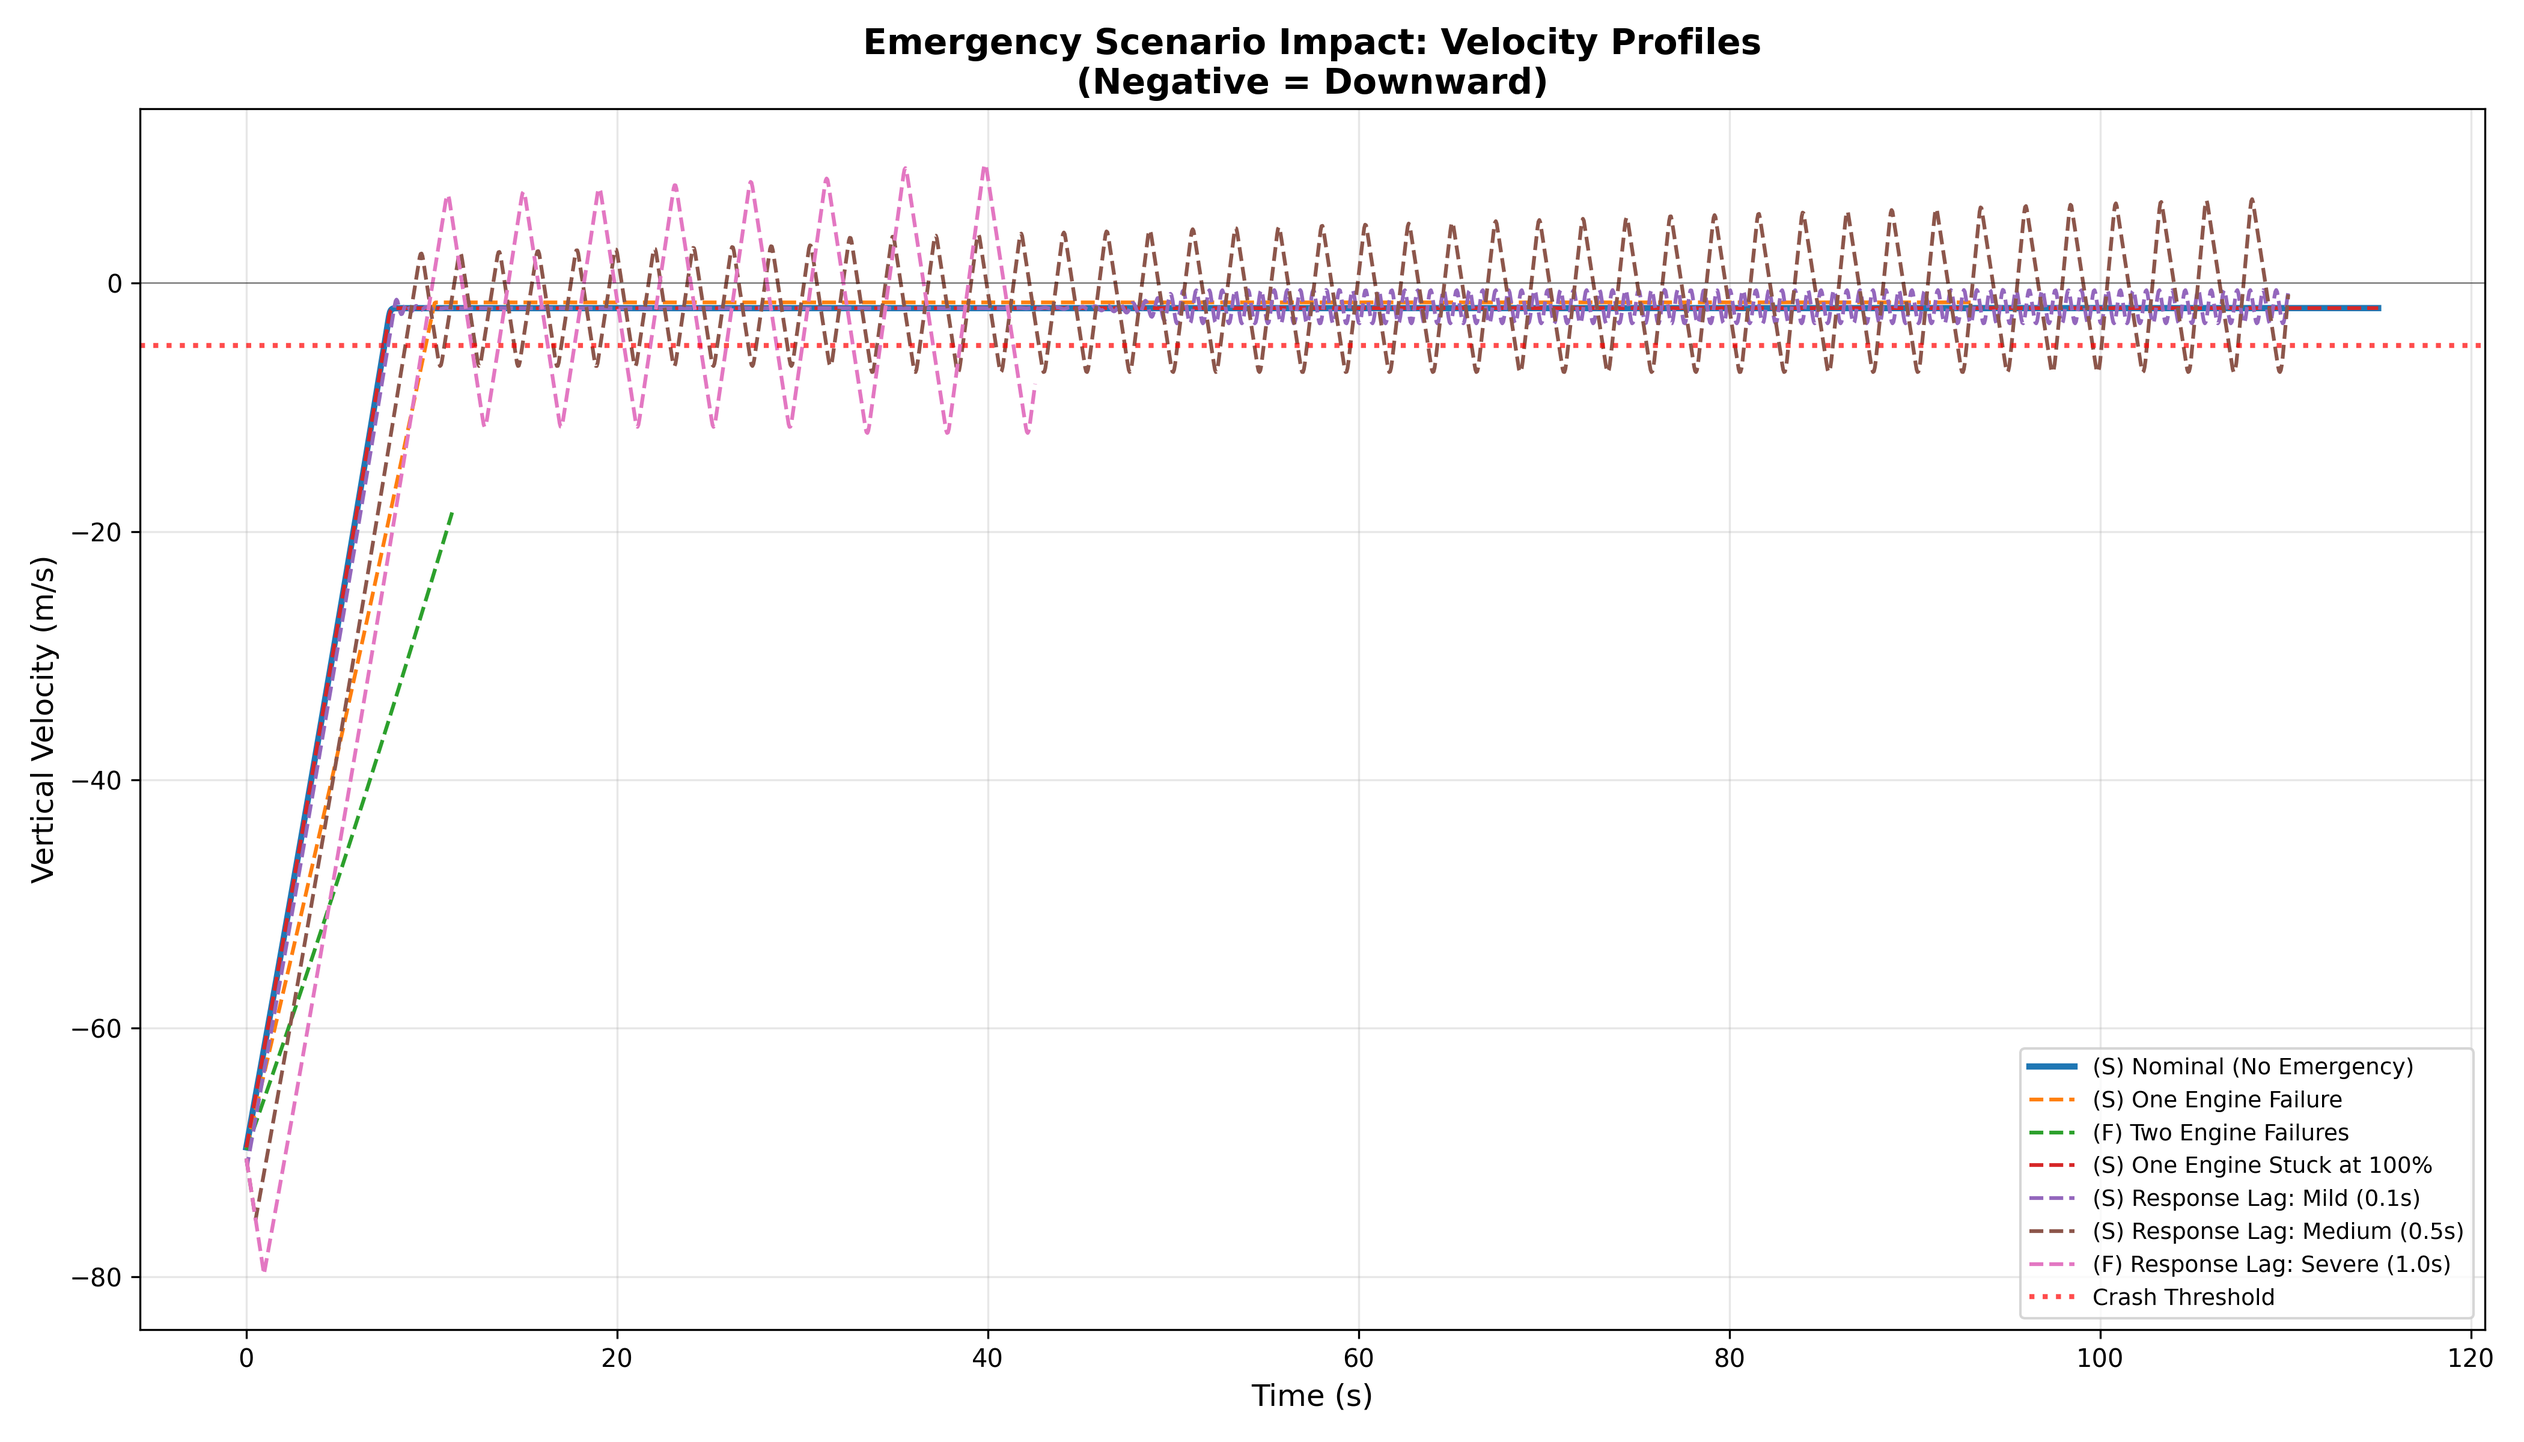
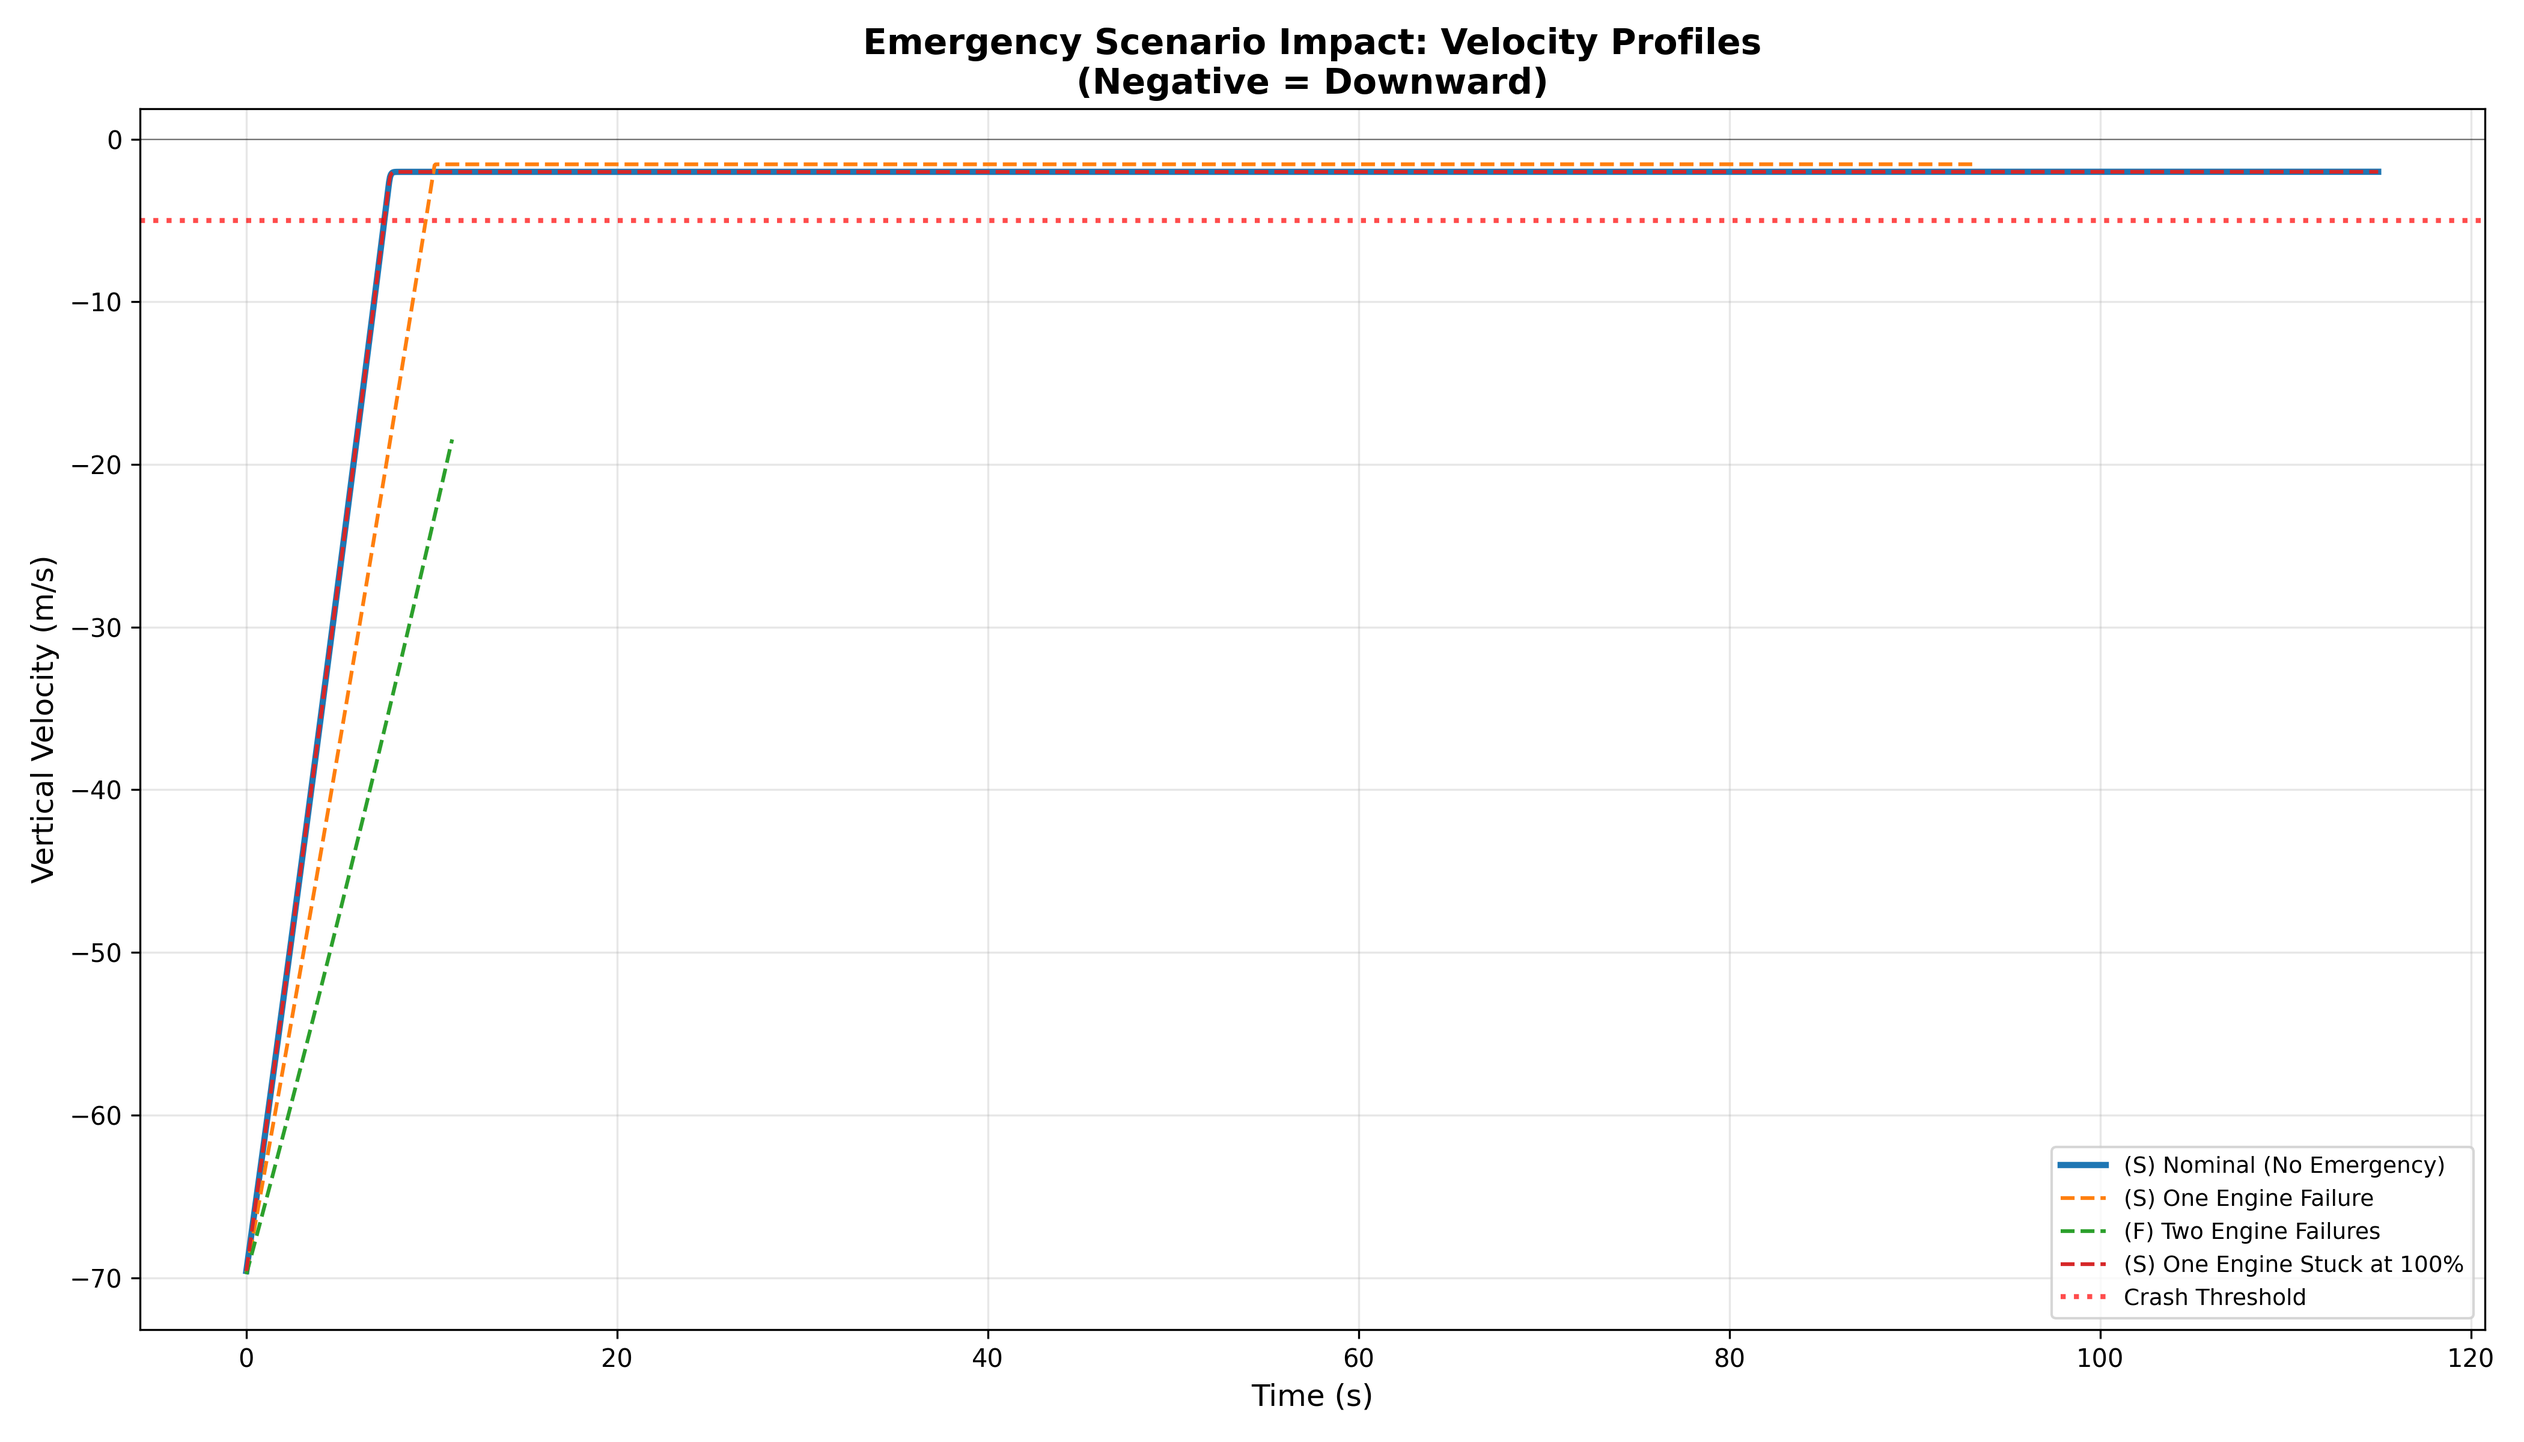
Emergency reslult plots fix

diff --git a/experiments/emergency_scenario_experiment.py b/experiments/emergency_scenario_experiment.py
@@ -191,6 +191,10 @@ class EmergencyScenarioExperiment:
         
         return summary
 
+    def _is_response_lag_scenario(self, scenario_name):
+        """Check if a scenario is a response lag scenario."""
+        return "Response Lag" in scenario_name
+
     # ============================================================
     # Plotting Functions
     # ============================================================
@@ -283,10 +287,13 @@ class EmergencyScenarioExperiment:
         plt.close(fig)
 
     def plot_velocity_profiles(self, all_results):
-        """Plot 4: Velocity vs time for all scenarios"""
+        """Plot 4: Velocity vs time for all scenarios (excluding response lag)"""
+        # Filter out response lag scenarios
+        results = [r for r in all_results if not self._is_response_lag_scenario(r["scenario"])]
+        
         fig, ax = plt.subplots(figsize=(14, 8))
         
-        for i, result in enumerate(all_results):
+        for i, result in enumerate(results):
             data = result["data"]
             outcome = "(S)" if result["landed"] else "(F)"
             label = f"{outcome} {result['scenario']}"
@@ -314,10 +321,13 @@ class EmergencyScenarioExperiment:
         plt.close(fig)
 
     def plot_altitude_profiles(self, all_results):
-        """Plot 5: Altitude vs time for all scenarios"""
+        """Plot 5: Altitude vs time for all scenarios (excluding response lag)"""
+        # Filter out response lag scenarios
+        results = [r for r in all_results if not self._is_response_lag_scenario(r["scenario"])]
+        
         fig, ax = plt.subplots(figsize=(14, 8))
         
-        for result in all_results:
+        for result in results:
             data = result["data"]
             outcome = "(S)" if result["landed"] else "(F)"
             label = f"{outcome} {result['scenario']}"
@@ -342,10 +352,13 @@ class EmergencyScenarioExperiment:
         plt.close(fig)
 
     def plot_throttle_profiles(self, all_results):
-        """Plot 6: Throttle (control effort) vs time"""
+        """Plot 6: Throttle (control effort) vs time (excluding response lag)"""
+        # Filter out response lag scenarios
+        results = [r for r in all_results if not self._is_response_lag_scenario(r["scenario"])]
+        
         fig, ax = plt.subplots(figsize=(14, 8))
         
-        for result in all_results:
+        for result in results:
             data = result["data"]
             outcome = "(S)" if result["landed"] else "(F)"
             label = f"{outcome} {result['scenario']}"
@@ -369,6 +382,106 @@ class EmergencyScenarioExperiment:
         save_dir = "experiments/emergencies_results"
         os.makedirs(save_dir, exist_ok=True)
         plt.savefig(os.path.join(save_dir, "emergency_06_throttle_profiles.png"), dpi=300)
+        plt.close(fig)
+
+    def plot_velocity_profiles_lag(self, all_results):
+        """Plot 7: Velocity vs time for response lag scenarios only (3 subplots)"""
+        # Filter only response lag scenarios
+        lag_results = [r for r in all_results if self._is_response_lag_scenario(r["scenario"])]
+        
+        # Sort by delay value
+        lag_results.sort(key=lambda x: float(x["scenario"].split('(')[1].split('s')[0]))
+        
+        fig, axes = plt.subplots(1, 3, figsize=(18, 6))
+        
+        for idx, result in enumerate(lag_results):
+            ax = axes[idx]
+            data = result["data"]
+            outcome = "(S)" if result["landed"] else "(F)"
+            label = f"{outcome} {result['scenario']}"
+            
+            ax.plot(data["time"], data["velocity"], label=label, linewidth=2.5, color='#2980b9')
+            
+            # Add crash threshold line
+            ax.axhline(y=self.crash_threshold, color='red', linestyle=':', linewidth=2, alpha=0.7, label='Crash Threshold')
+            ax.axhline(y=0, color='black', linestyle='-', linewidth=0.5, alpha=0.5)
+            
+            ax.set_xlabel("Time (s)", fontsize=11)
+            ax.set_ylabel("Vertical Velocity (m/s)", fontsize=11)
+            ax.set_title(f"{result['scenario']}", fontsize=12, fontweight='bold')
+            ax.legend(loc='best', fontsize=9)
+            ax.grid(True, alpha=0.3)
+        
+        fig.suptitle("Response Lag Scenarios: Velocity Profiles Comparison\n(Negative = Downward)", 
+                     fontsize=14, fontweight='bold', y=1.02)
+        plt.tight_layout()
+        save_dir = "experiments/emergencies_results"
+        os.makedirs(save_dir, exist_ok=True)
+        plt.savefig(os.path.join(save_dir, "emergency_07_velocity_profiles_lag.png"), dpi=300, bbox_inches='tight')
+        plt.close(fig)
+
+    def plot_altitude_profiles_lag(self, all_results):
+        """Plot 8: Altitude vs time for response lag scenarios only"""
+        # Filter only response lag scenarios
+        results = [r for r in all_results if self._is_response_lag_scenario(r["scenario"])]
+        
+        fig, ax = plt.subplots(figsize=(14, 8))
+        
+        for result in results:
+            data = result["data"]
+            outcome = "(S)" if result["landed"] else "(F)"
+            label = f"{outcome} {result['scenario']}"
+            
+            ax.plot(data["time"], data["altitude"], label=label, linewidth=2)
+        
+        ax.axhline(y=0, color='black', linestyle='-', linewidth=1, alpha=0.5, label='Ground Level')
+        
+        ax.set_xlabel("Time (s)", fontsize=12)
+        ax.set_ylabel("Altitude (m)", fontsize=12)
+        ax.set_title("Response Lag Scenarios: Descent Trajectories", fontsize=14, fontweight='bold')
+        ax.legend(loc='best', fontsize=10)
+        ax.grid(True, alpha=0.3)
+        
+        plt.tight_layout()
+        save_dir = "experiments/emergencies_results"
+        os.makedirs(save_dir, exist_ok=True)
+        plt.savefig(os.path.join(save_dir, "emergency_08_altitude_profiles_lag.png"), dpi=300)
+        plt.close(fig)
+
+    def plot_throttle_profiles_lag(self, all_results):
+        """Plot 9: Throttle (control effort) vs time for response lag scenarios only (3 subplots)"""
+        # Filter only response lag scenarios
+        lag_results = [r for r in all_results if self._is_response_lag_scenario(r["scenario"])]
+        
+        # Sort by delay value
+        lag_results.sort(key=lambda x: float(x["scenario"].split('(')[1].split('s')[0]))
+        
+        fig, axes = plt.subplots(1, 3, figsize=(18, 6))
+        
+        for idx, result in enumerate(lag_results):
+            ax = axes[idx]
+            data = result["data"]
+            outcome = "(S)" if result["landed"] else "(F)"
+            label = f"{outcome} {result['scenario']}"
+            
+            ax.plot(data["time"], data["throttle"], label=label, linewidth=2.5, color='#2980b9')
+            
+            ax.axhline(y=100, color='red', linestyle=':', linewidth=1.5, alpha=0.5, label='Max Throttle')
+            ax.axhline(y=0, color='black', linestyle='-', linewidth=0.5, alpha=0.5)
+            
+            ax.set_xlabel("Time (s)", fontsize=11)
+            ax.set_ylabel("Throttle (%)", fontsize=11)
+            ax.set_title(f"{result['scenario']}", fontsize=12, fontweight='bold')
+            ax.legend(loc='upper right', fontsize=9)
+            ax.grid(True, alpha=0.3)
+            ax.set_ylim([0, 110])
+        
+        fig.suptitle("Response Lag Scenarios: Control Effort Comparison (Throttle Commands)", 
+                     fontsize=14, fontweight='bold', y=1.02)
+        plt.tight_layout()
+        save_dir = "experiments/emergencies_results"
+        os.makedirs(save_dir, exist_ok=True)
+        plt.savefig(os.path.join(save_dir, "emergency_09_throttle_profiles_lag.png"), dpi=300, bbox_inches='tight')
         plt.close(fig)
 
     # ============================================================
@@ -424,6 +537,15 @@ class EmergencyScenarioExperiment:
         
         self.plot_throttle_profiles(all_results)
         print(" Plot 6: Throttle Profiles")
+        
+        self.plot_velocity_profiles_lag(all_results)
+        print(" Plot 7: Response Lag - Velocity Profiles")
+        
+        self.plot_altitude_profiles_lag(all_results)
+        print(" Plot 8: Response Lag - Altitude Profiles")
+        
+        self.plot_throttle_profiles_lag(all_results)
+        print(" Plot 9: Response Lag - Throttle Profiles")
 
         print("\n" + "=" * 70)
         print("EXPERIMENT COMPLETE!")
